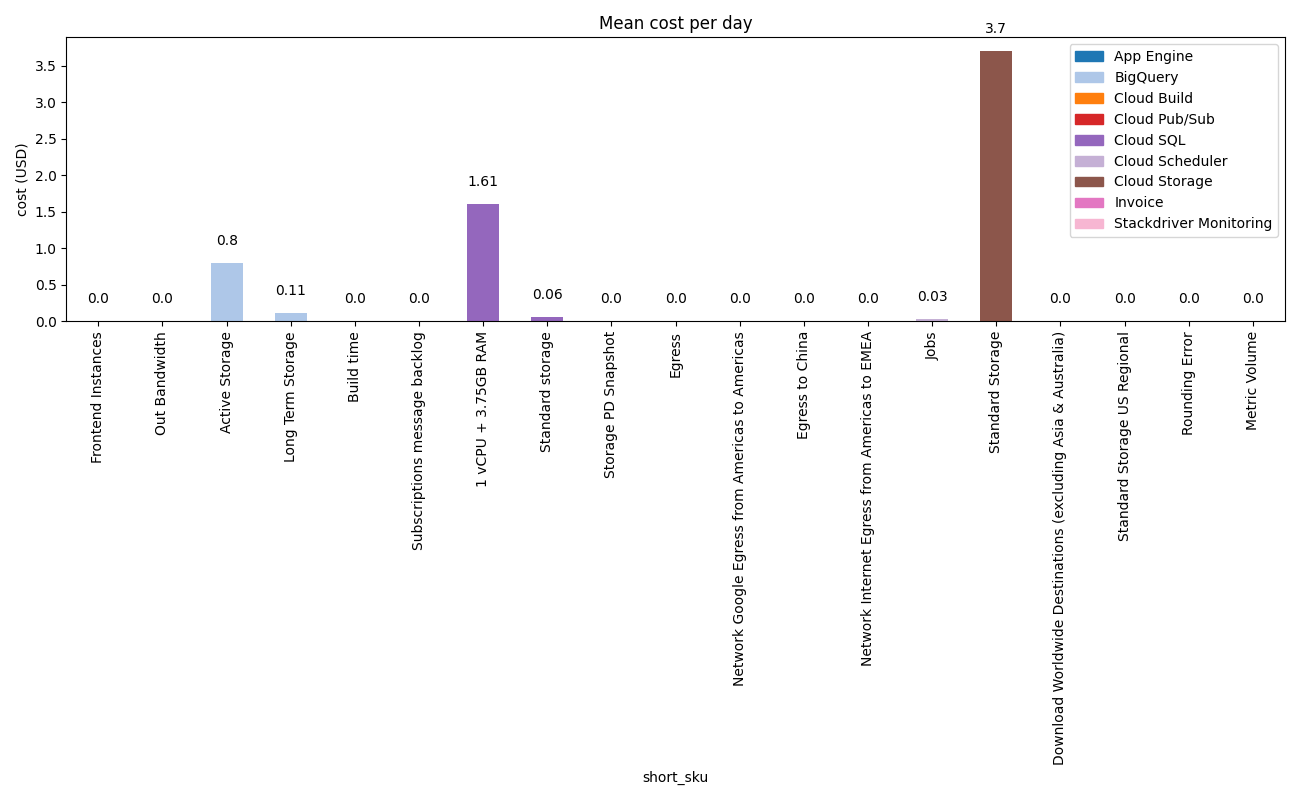
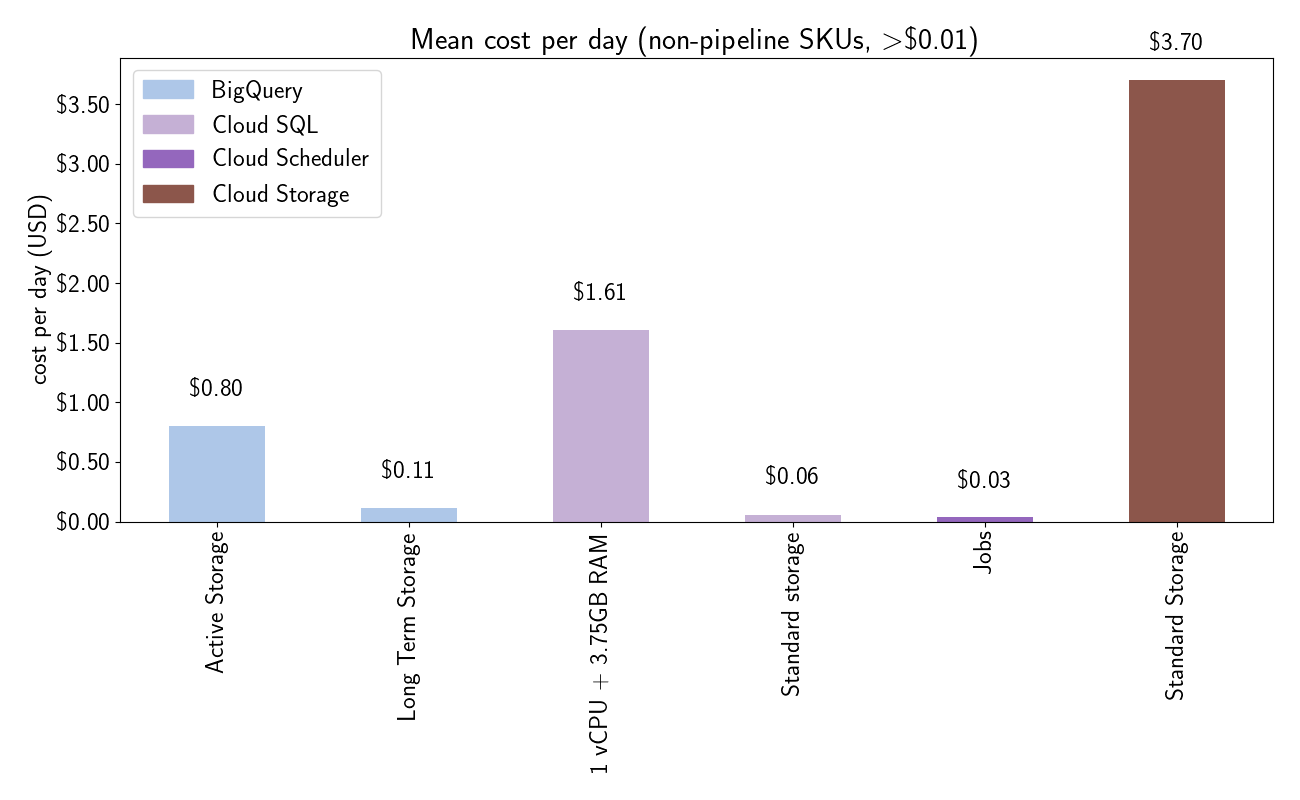
update billing figures

diff --git a/docs/source/working-notes/troyraen/billing/figures.py b/docs/source/working-notes/troyraen/billing/figures.py
@@ -4,6 +4,7 @@
 from matplotlib import cm
 from matplotlib import pyplot as plt
 from matplotlib.patches import Patch
+from matplotlib.ticker import FormatStrFormatter
 
 ALL_SERVICES = (
     'App Engine',
@@ -14,8 +15,8 @@ ALL_SERVICES = (
     'Cloud Logging',
     'Cloud Pub/Sub',
     'Cloud Run',
-    'Cloud SQL',
     'Cloud Scheduler',
+    'Cloud SQL',
     'Cloud Storage',
     'Compute Engine',
     'Invoice',
@@ -70,10 +71,12 @@ def plot_cost_by_sku(costdf, cost='cost', save=None, title=None):
     labels = round(costdf[cost], 2)  # height of each bar
     y_offset = 0.25  # put space between bar and text
     for i, label in enumerate(labels):
-        ax.text(i, label + y_offset, label, ha='center', rotation='horizontal')
+        ax.text(i, label + y_offset, f'${label:.2f}', ha='center', rotation='horizontal')
 
     plt.legend(handles=legend_elements)
-    plt.ylabel(f"{cost} (USD)")
+    plt.xlabel(" ")
+    plt.ylabel(f"{cost.replace('_', ' ')} (USD)")
+    ax.yaxis.set_major_formatter(FormatStrFormatter('$%.2f'))
     plt.title(title)
     plt.tight_layout()
 

diff --git a/docs/source/working-notes/troyraen/billing/README.md b/docs/source/working-notes/troyraen/billing/README.md
@@ -3,8 +3,8 @@
 - [x] [Export Cloud Billing data to BigQuery](https://cloud.google.com/billing/docs/how-to/export-data-bigquery)
 - [x] Pull some data and create figures
     - [ ] annotate figures with the date range the data comes from
-    - [ ] increase decimal precision for cost annotations showing zero. actual zeros have already been dropped
-    - [ ] specificy that "per million alerts" is the number of ZTF alerts entering our system
+    - [x] ~increase decimal precision for cost annotations showing zero. actual zeros have already been dropped~ drop costs below some threshhold
+    - [x] specificy that "per million alerts" is the number of ZTF alerts entering our system
     - [ ] rewrite `transforms._shorten_sku()` to use regex instead of trying to manually map every sku. there's too many.
     - [ ] move the compute engine PD storage to the mean cost per day figure
     - [ ] calculate storage cost per number of alerts in storage
@@ -84,6 +84,11 @@ import transforms
 
 billing_project_id = os.getenv('GOOGLE_CLOUD_PROJECT', 'light-cycle-328823')
 prod_project_id = os.getenv('GOOGLE_CLOUD_PROJECT2', 'ardent-cycling-243415')
+
+plt.rcParams.update({
+    "text.usetex": True,  # if True, use math mode ($$) and escape special chars
+    "font.size": 18,
+})
 ```
 
 ## Query tables or load dataframes from files
@@ -159,20 +164,22 @@ mylitebilldf = mylitebilldf.loc[indexes_to_keep]
 costdf_bydate = transforms.cost_by_sku(mylitebilldf.reset_index(), how='sum', bydate=True)
 
 # calculate cost per million
+cost_per_mil = 'cost_per_million_alerts_ingested'
 costdf_bydate.set_index('usage_date', inplace=True)
-costdf_bydate['cost_per_million_alerts'] = costdf_bydate.cost / countdf.loc[indexes_to_keep].num_alerts *1e6
+costdf_bydate[cost_per_mil] = costdf_bydate.cost / countdf.loc[indexes_to_keep].num_alerts *1e6
 
 # get average cost/million alerts
-costdf = transforms.cost_by_sku(costdf_bydate, cost='cost_per_million_alerts', how='mean')
+costdf = transforms.cost_by_sku(costdf_bydate, cost=cost_per_mil, how='mean')
 # keep only significant costs
-costdf = costdf.loc[costdf.cost_per_million_alerts>0]
+min_cost_per_mil = 0.10
+costdf = costdf.loc[costdf[cost_per_mil] > min_cost_per_mil]
 
-save = 'billing_per_sku_per_million_alerts.png'
-title = "Mean cost per million alerts"
-figures.plot_cost_by_sku(costdf, save=save, cost='cost_per_million_alerts', title=title)
+save = 'billing_per_sku_per_million_alerts_ingested.png'
+title = f"Mean cost per million alerts ingested under normal conditions (pipeline SKUs, >${min_cost_per_mil:.2f})"
+figures.plot_cost_by_sku(costdf, save=save, cost=cost_per_mil, title=title)
 ```
 
-<img src="billing_per_sku_per_million_alerts.png" alt="billing_per_sku_per_million_alerts.png"/>
+<img src="billing_per_sku_per_million_alerts_ingested.png" alt="billing_per_sku_per_million_alerts_ingested.png"/>
 
 ## Not live pipeline: Bar chart of average cost per sku per day, colored by service
 
@@ -183,10 +190,16 @@ mylitebilldf = litebilldf.loc[~litebill_ispipelinesku]
 # sum by sku and date, then take the mean
 costdf_bydate = transforms.cost_by_sku(mylitebilldf.reset_index(), how='sum', bydate=True)
 costdf = transforms.cost_by_sku(costdf_bydate, how='mean')
+cost_per_day = "cost_per_day"
+costdf[cost_per_day] = costdf["cost"]
+
+# keep only significant costs
+min_cost = 0.01
+costdf = costdf.loc[costdf[cost_per_day] > min_cost]
 
 save = 'billing_per_sku_per_day.png'
-title = "Mean cost per day"
-figures.plot_cost_by_sku(costdf, save=save, title=title)
+title = f"Mean cost per day (non-pipeline SKUs, >${min_cost:.2f})"
+figures.plot_cost_by_sku(costdf, cost=cost_per_day, save=save, title=title)
 ```
 
 <img src="billing_per_sku_per_day.png" alt="billing_per_sku_per_day.png"/>
